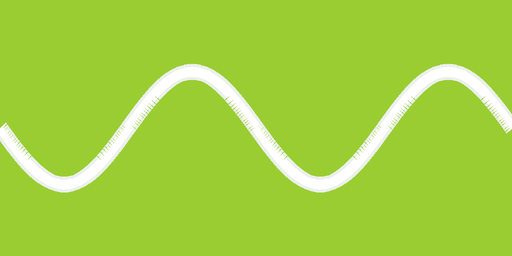
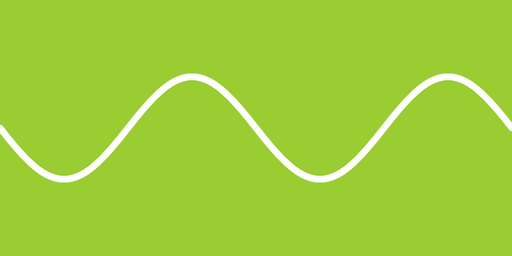
테니스공 이음선 얇고 매끄럽게 재작업 + 빛 전달 중 애벌레 완전 정지
- 이음선을 점 스탬핑(4배 슈퍼샘플)으로 다시 그림 — 꺾임/뾰족함 없는
  일정 굵기 곡선, 굵기 40% 감소
- 등장 이후 애벌레는 컷씬 내내 정지(대사·카메라 전환·빛 구슬·발광 전부)
  — 퇴장 등반 때만 뱀 웨이브로 움직임

Changed region(s): [[0.0, 0.25, 1.0, 0.75]]

diff --git a/Assets/Scripts/FrameHallClimb.cs b/Assets/Scripts/FrameHallClimb.cs
@@ -203,7 +203,6 @@ public class FrameHallClimb : MonoBehaviour
             float u = Mathf.SmoothStep(0f, 1f, t / lightSeconds);
             orb.transform.position = Vector3.Lerp(from, to, u);
             orb.transform.localScale = Vector3.one * Mathf.Lerp(0.5f, 0.12f, u);
-            WiggleChainStep();
             SetCam(camW, lookW); yield return null;
         }
         Object.Destroy(orb);
@@ -265,7 +264,6 @@ public class FrameHallClimb : MonoBehaviour
                 { m.EnableKeyword("_EMISSION"); m.globalIlluminationFlags = MaterialGlobalIlluminationFlags.RealtimeEmissive; }
                 r.GetPropertyBlock(mpb); mpb.SetColor("_EmissionColor", emi); r.SetPropertyBlock(mpb);
             }
-            WiggleChainStep();
             SetCam(cp, cl); yield return null;
         }
         foreach (var r in rends)
@@ -307,8 +305,6 @@ public class FrameHallClimb : MonoBehaviour
         return pts[pts.Length - 1];
     }
 
-    Vector3[] lastPath; float lastHeadS;
-
     IEnumerator MoveChain(Vector3[] path, float dur, Vector3 cp, Vector3 cl)
     {
         float total = 0f;
@@ -321,7 +317,6 @@ public class FrameHallClimb : MonoBehaviour
             SetCam(cp, cl); yield return null;
         }
         PoseChain(path, endS);
-        lastPath = path; lastHeadS = endS;
     }
 
     void PoseChain(Vector3[] path, float headS)
@@ -336,11 +331,6 @@ public class FrameHallClimb : MonoBehaviour
         }
     }
 
-    void WiggleChainStep() { if (chain != null && lastPath != null) PoseChain(lastPath, lastHeadS); }
-
-    IEnumerator Wiggle(float dur, Vector3 cp, Vector3 cl)
-    { for (float t = 0; t < dur; t += Time.deltaTime) { WiggleChainStep(); SetCam(cp, cl); yield return null; } }
-
     IEnumerator Hold(float dur, Vector3 cp, Vector3 cl)
     { for (float t = 0; t < dur; t += Time.deltaTime) { SetCam(cp, cl); yield return null; } }
 
@@ -351,7 +341,6 @@ public class FrameHallClimb : MonoBehaviour
         {
             float u = Mathf.SmoothStep(0f, 1f, t / dur);
             if (cam != null) { cam.position = Vector3.Lerp(p0, p1, u); cam.rotation = Quaternion.Slerp(r0, r1, u); }
-            WiggleChainStep();
             yield return null;
         }
     }
